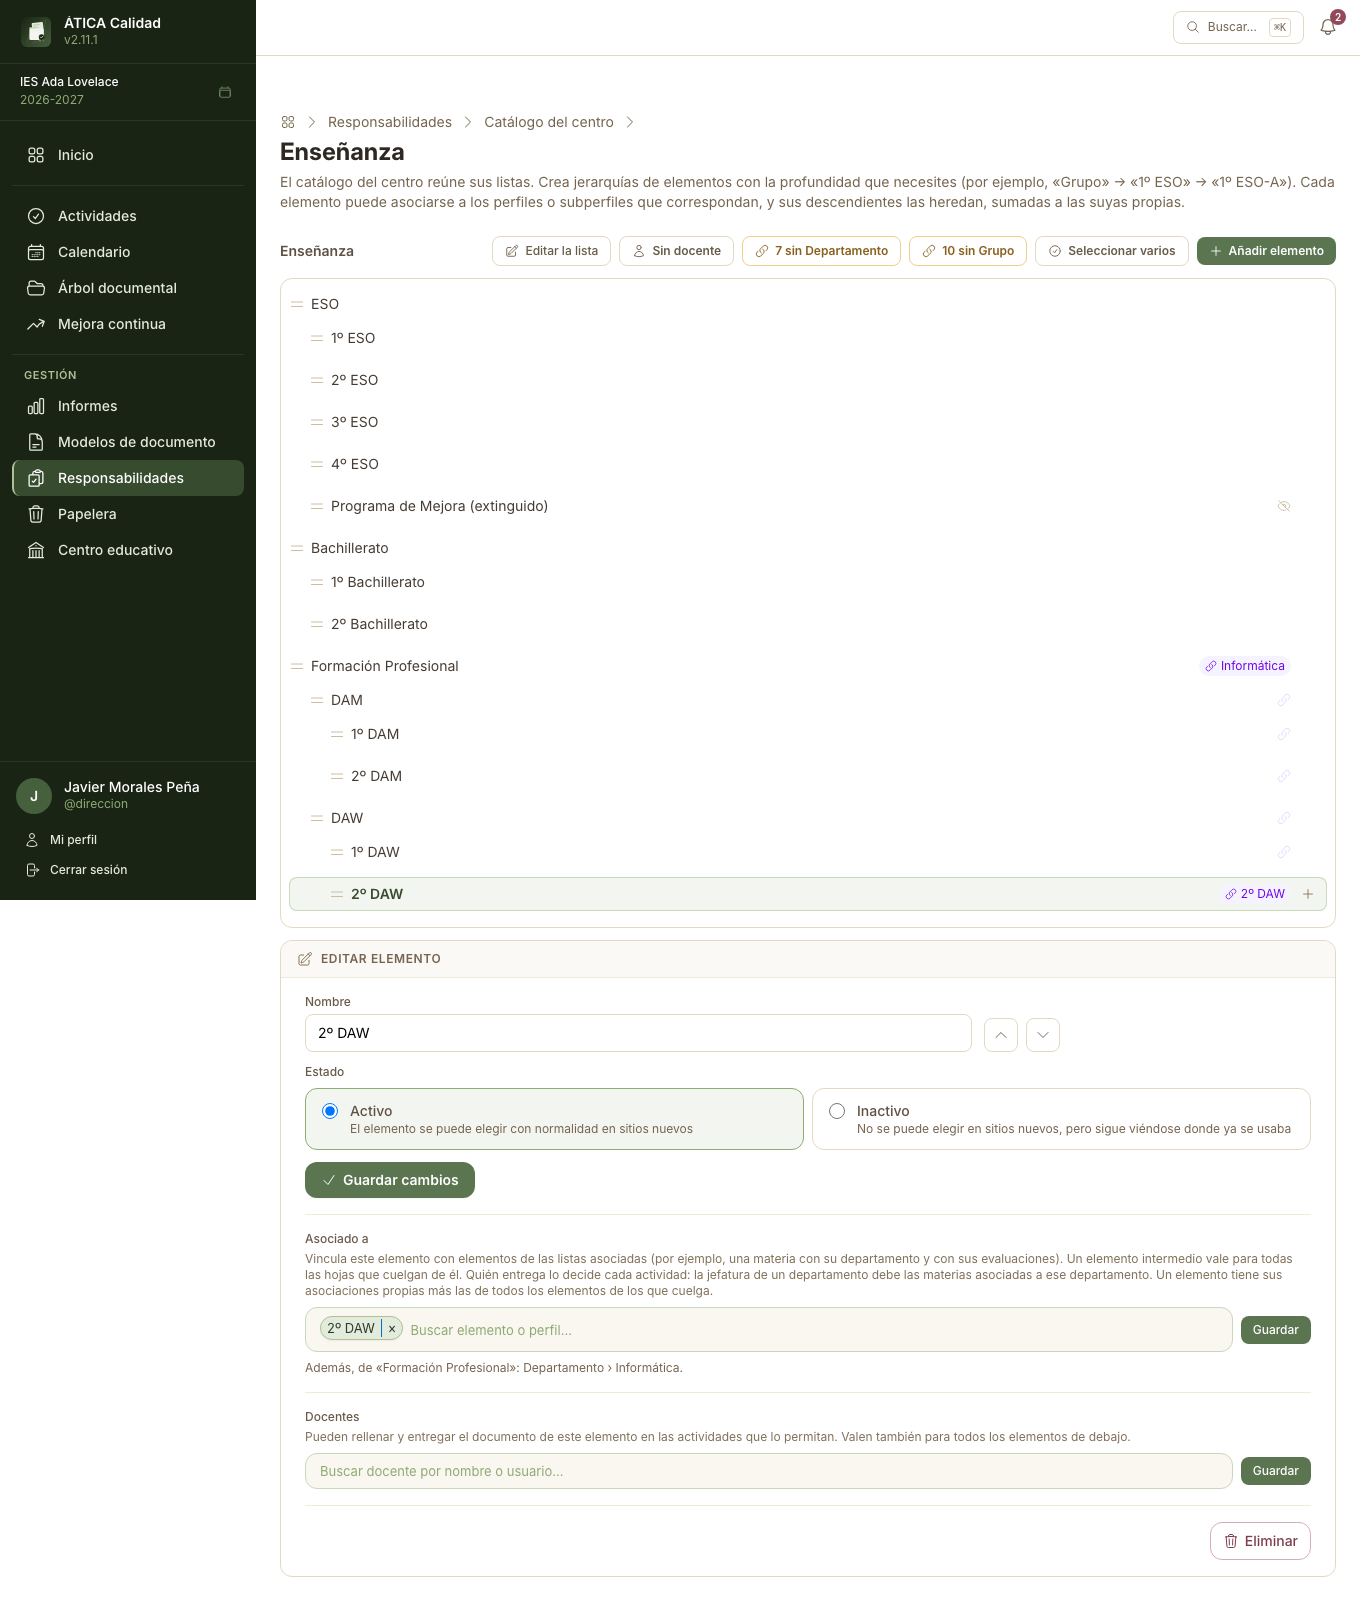
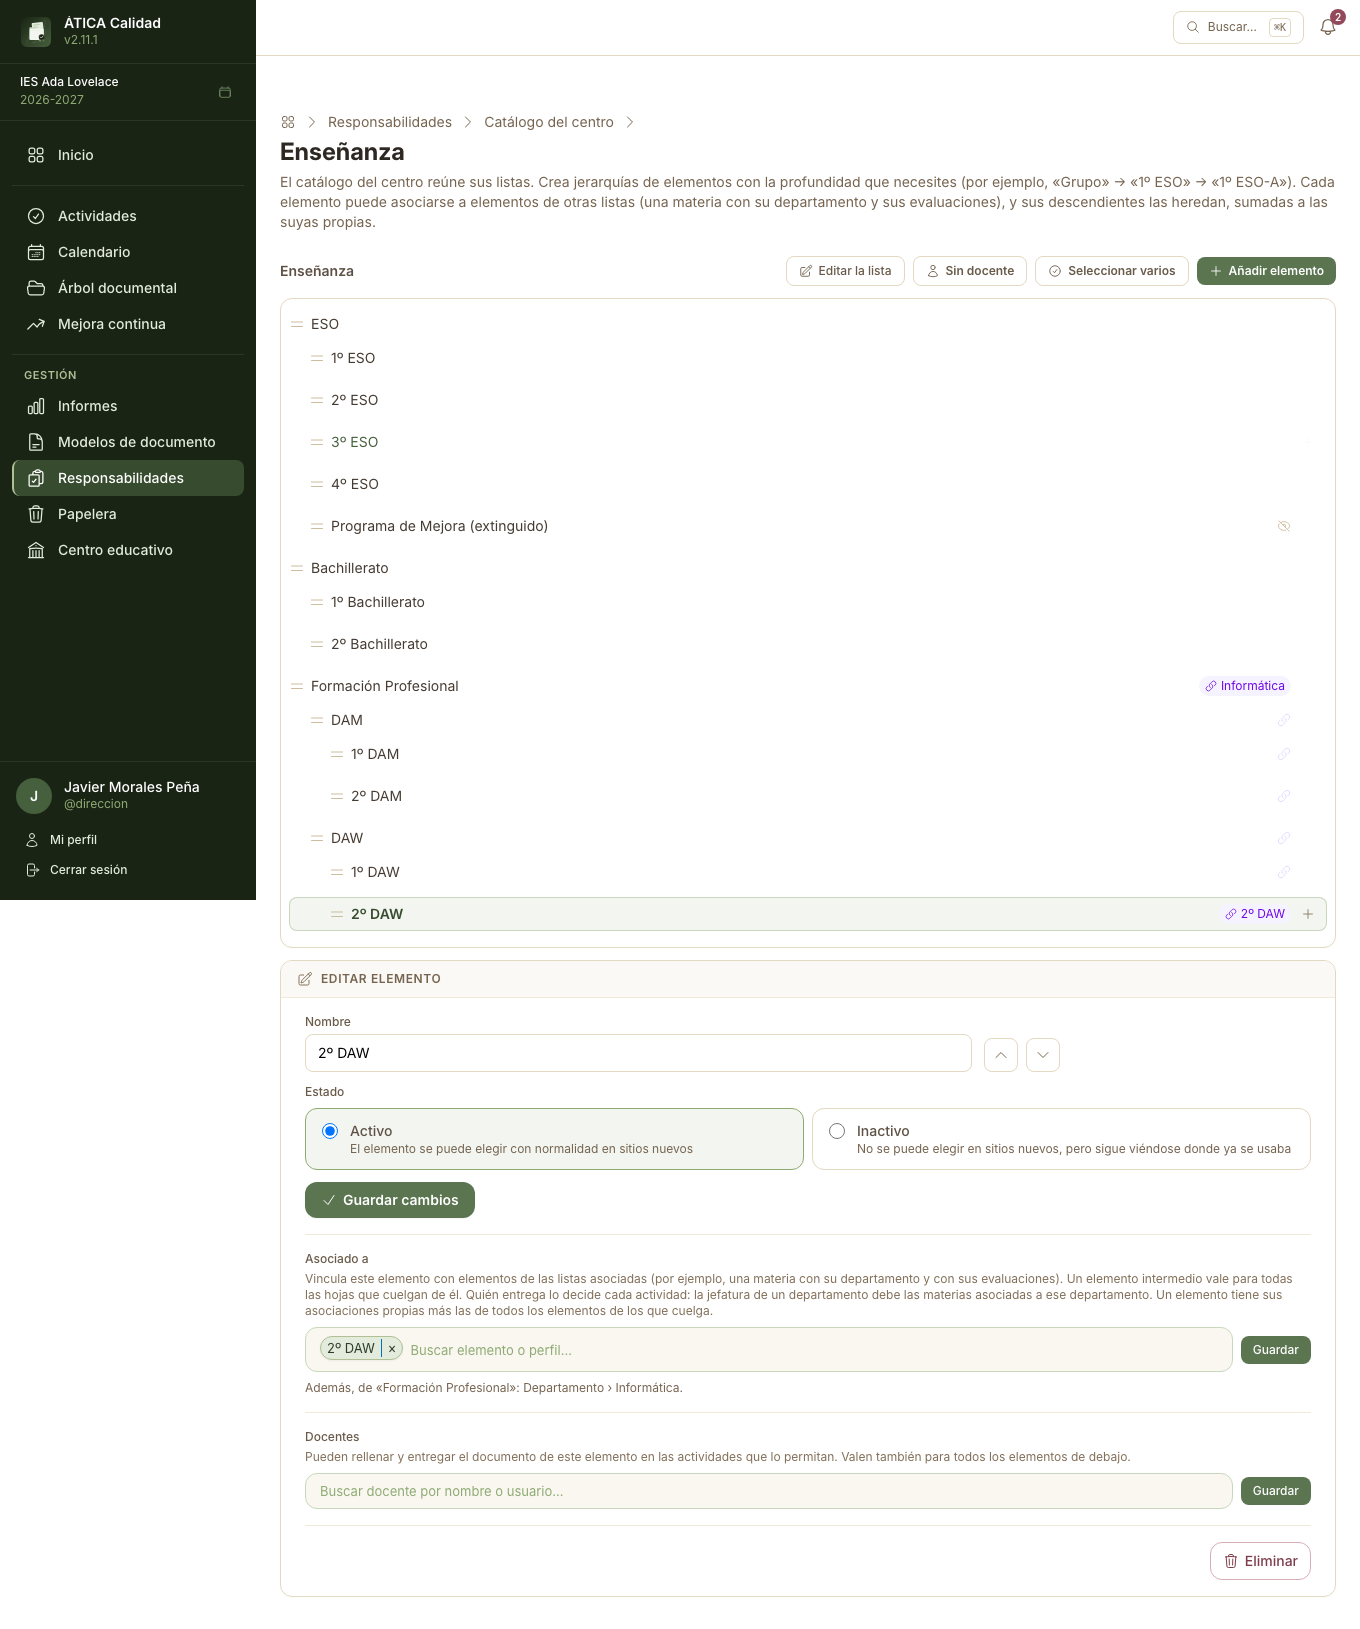
feat(responsibilities): el contador «sin <lista>» solo sale cuando la mayoría de las hojas ya tiene un elemento de esa lista

diff --git a/tests/Integration/Component/Admin/ListItemTreeComponentTest.php b/tests/Integration/Component/Admin/ListItemTreeComponentTest.php
@@ -394,7 +394,7 @@ final class ListItemTreeComponentTest extends ControllerTestCase
 
         $this->loginAs($admin, $centre);
         $component = $this->createLiveComponent('Admin:ListItemTreeComponent', ['centre' => $centre, 'root' => $subjects], $this->client);
-        self::assertStringContainsString('3 sin Departamento', $component->render()->toString());
+        self::assertStringNotContainsString('sin Departamento', $component->render()->toString(), 'no leaf has one yet: the list does not need the counter');
 
         $component->call('toggleBulkSelectMode');
         $component->set('markName', 'Itinerario Personal para la Empleabilidad I')->call('markByName');
@@ -407,7 +407,7 @@ final class ListItemTreeComponentTest extends ControllerTestCase
 
         $component->set('bulkAssociationKeys', ['l:' . $fol->getId()->toRfc4122()])->call('bulkSaveAssociation');
         $html = $component->render()->toString();
-        self::assertStringContainsString('1 sin Departamento', $html, 'only «Programación» is left');
+        self::assertStringContainsString('1 sin Departamento', $html, 'most leaves have one now: the counter shows the one left, «Programación»');
 
         $component->call('toggleOnlyWithoutLink', ['listId' => $depts->getId()->toRfc4122()]);
         $tree = implode('|', $component->render()->crawler()->filter('.js-list-item-node')->each(static fn ($node) => trim($node->text())));

diff --git a/src/Twig/Components/Admin/ListItemTreeComponent.php b/src/Twig/Components/Admin/ListItemTreeComponent.php
@@ -987,7 +987,9 @@ class ListItemTreeComponent extends AbstractController
 
     /**
      * For each list the managed list is associated with, how many of its leaves have no element of it, own or inherited (after a
-     * Séneca import, the new ones): what the counters at the top of the tree say, each one a filter.
+     * Séneca import, the new ones): what the counters at the top of the tree say, each one a filter. Only for the lists that most
+     * leaves already have (at least half): there a leaf without one is something missing; in a list where associating is the
+     * exception («Enseñanza» with «Grupo») the count would only be noise. The one being filtered by always stays.
      *
      * @return list<array{list: ListItem, missing: int}>
      */
@@ -1007,7 +1009,10 @@ class ListItemTreeComponent extends AbstractController
                     ++$missing;
                 }
             }
-            $result[] = ['list' => $linkedList, 'missing' => $missing];
+            $filtering = $linkedList->getId()->toRfc4122() === $this->onlyWithoutLinkTo;
+            if ($filtering || ($missing > 0 && $missing * 2 <= count($leaves))) {
+                $result[] = ['list' => $linkedList, 'missing' => $missing];
+            }
         }
 
         return $result;

diff --git a/CHANGELOG.md b/CHANGELOG.md
@@ -16,7 +16,7 @@ a [Semantic Versioning](https://semver.org/lang/es/).
 - Responsabilidades: la importación de materias desde Séneca puede **asociar también los docentes** de la columna «Profesor/a» del fichero («Apellidos, Nombre»), con una casilla marcada siempre que el fichero la trae. Los nombres se buscan entre los docentes del curso activo del centro, sin distinguir mayúsculas; los que no aparecen se dejan fuera y la previsualización los lista («Docente no encontrado», «No está en el curso») junto al resumen («35 docentes asociados · 2 no encontrados») y, por elemento, quién entra y quién sale. Al confirmar, cada materia del fichero queda con sus docentes del fichero (varios en los desdobles), así que al empezar un curso basta con volver a importar; los elementos que el fichero no menciona y las asociaciones con perfiles no se tocan. Una reimportación en la que solo cambian los docentes ya no se da por «sin cambios».
 - Responsabilidades: la importación de materias desde Séneca ofrece la **forma de la lista**: «Por grupo» («1.º ESO A › Matemáticas», la de siempre) o «Por materia» («Matemáticas › 1.º ESO A»), con la que basta asociar cada materia a su departamento una vez para que todos sus grupos lo hereden. Viene marcada la forma que ya tiene la lista (por los nombres de su primer nivel o, con categorías, por los de sus hojas). Elegir la contraria avisa en ámbar de que se crearán elementos nuevos y se quitarán los actuales, y no deja confirmar sin marcar «Entiendo que se crearán elementos nuevos»; en ese caso la importación no busca los nombres dentro de las categorías, que emparejaría cada materia con la hoja de algún grupo. Las dos opciones están en la previsualización y la recalculan con el mismo fichero.
 - Modelos de documento: las tablas pueden tener **una fila por entrega de otra actividad** («Datos de otras entregas»). En el editor, la opción «Una por entrega de otra actividad» de Filas pide el modelo que rellenan esas entregas, qué campos con nombre interno traer como columnas (casillas; cada una añade una columna de solo lectura con la insignia «De la entrega», con su unidad, sus decimales y su total al pie), qué entregas (las de los elementos asociados a quien entrega, o todas) y si se muestra el estado de cada una; las columnas propias se añaden como siempre. Cada actividad que usa el modelo elige, en el apartado nuevo **Datos de otras entregas** de su formulario, de qué actividad salen las filas: es obligatorio, avisa si esa actividad vence después y no deja elegir una que ya lea los datos de esta; la vista de la actividad lo dice, y avisa a quien la gestiona si falta. Al abrir el borrador se leen las entregas (estado, aprobación, docentes del elemento y los valores) y el botón **Actualizar** las vuelve a leer sin perder lo escrito en las columnas propias, con las celdas cambiadas parpadeando una vez. Lo leído no se puede cambiar desde el navegador, y una columna propia obligatoria solo se exige en las filas entregadas. Cuando una materia la piden dos departamentos, cada jefatura ve su propia entrega. Las comprobaciones del modelo avisan de una tabla sin modelo de entregas, con un campo que ya no existe, dentro de una sección que se repite o que formaría un ciclo entre modelos. Incluye una migración nueva (`Version20261125190000`, tabla `activity_delivery_source`). Falta todavía (siguiente fase) la comprobación al entregar, el PDF y el manual.
-- Responsabilidades: **listas asociadas**. Una lista declara con qué otras listas se asocian sus elementos (tarjeta **Listas asociadas** en el panel de la propia lista, con «Editar la lista»; «Materia» con «Departamento» y «Evaluación», por ejemplo), y cada elemento se asocia a uno o varios elementos de esas listas (o a un elemento intermedio, que vale por todas sus hojas). El selector «Asociado a» los ofrece agrupados por lista, más los perfiles sin lista; el árbol muestra las asociaciones propias como etiquetas. Un contador por lista asociada en la barra del árbol («2 sin Evaluación») filtra las hojas que no tienen ningún elemento de ella. La selección de varios elementos puede **añadir, sustituir las de esa lista o quitar** asociaciones, y **Marcar por nombre** marca de una vez todas las hojas con ese nombre (sin distinguir mayúsculas ni tildes) dentro de la lista o de una rama. Es la base de las entregas por materia y evaluación de la próxima fase.
+- Responsabilidades: **listas asociadas**. Una lista declara con qué otras listas se asocian sus elementos (tarjeta **Listas asociadas** en el panel de la propia lista, con «Editar la lista»; «Materia» con «Departamento» y «Evaluación», por ejemplo), y cada elemento se asocia a uno o varios elementos de esas listas (o a un elemento intermedio, que vale por todas sus hojas). El selector «Asociado a» los ofrece agrupados por lista, más los perfiles sin lista; el árbol muestra las asociaciones propias como etiquetas. Un contador por lista asociada en la barra del árbol («2 sin Evaluación») filtra las hojas que no tienen ningún elemento de ella; solo sale cuando al menos la mitad de las hojas ya lo tiene, para no avisar en listas donde asociar es la excepción. La selección de varios elementos puede **añadir, sustituir las de esa lista o quitar** asociaciones, y **Marcar por nombre** marca de una vez todas las hojas con ese nombre (sin distinguir mayúsculas ni tildes) dentro de la lista o de una rama. Es la base de las entregas por materia y evaluación de la próxima fase.
 - Los datos de demostración incluyen los docentes de las materias de Informática y, con el nuevo comando opcional `app:load-demo-module-programs`, la actividad «Entrega de programaciones de los módulos» que los usa, con su cadena de dos pasos: la jefatura de cada departamento (limitada al elemento) y jefatura de estudios.
 
 ### Changed

diff --git a/docs/manual/06-responsabilidades.md b/docs/manual/06-responsabilidades.md
@@ -105,8 +105,7 @@ marca un elemento [inactivo](#elementos-activos-e-inactivos); y los **enlaces** 
 «Formación Profesional» —la etiqueta «Informática» en la rama y un icono **atenuado** en cada elemento
 que cuelga de ella— son las [asociaciones](#asociar-un-elemento-con-un-perfil): la rama tiene una
 propia y sus descendientes la heredan. «2º DAW» tiene además la suya, así que lleva su propia
-etiqueta («2º DAW», su grupo): tiene las dos. Los contadores «sin Departamento» y «sin Grupo» de la
-barra dicen cuántas hojas no tienen ninguna asociación con esas listas.
+etiqueta («2º DAW», su grupo): tiene las dos.
 
 ![Árbol de la lista «Enseñanza» con sus tres ramas: ESO (con un elemento inactivo), Bachillerato y Formación Profesional, con DAM y DAW; la etiqueta «Informática» de la rama FP y la de «2º DAW» señalan las asociaciones](img/responsabilidades-lista-arbol.png)
 
@@ -208,7 +207,9 @@ asociar el departamento a las hojas y no a la materia.
 cuántas hojas no tienen ningún elemento de ella, propio o heredado («2 sin Evaluación»); al pulsarlo,
 el árbol muestra solo esas hojas (y las ramas que llevan a ellas), y al pulsarlo de nuevo, todo. Sirve
 sobre todo después de [importar desde Séneca](#importar-desde-seneca): las materias nuevas llegan sin
-asociaciones.
+asociaciones. Solo aparece cuando al menos la mitad de las hojas ya tiene un elemento de esa lista:
+en una lista donde asociar es la excepción (en «Enseñanza», solo la rama de FP tiene departamento) no
+avisaría de nada que falte.
 
 ![El árbol de «Materia» filtrado por «2 sin Evaluación»: solo Educación Física y la FFEOE](img/responsabilidades-sin-evaluacion.png)
 
